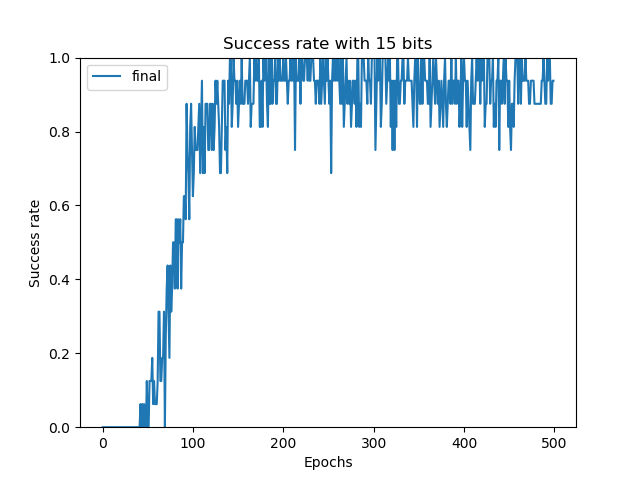
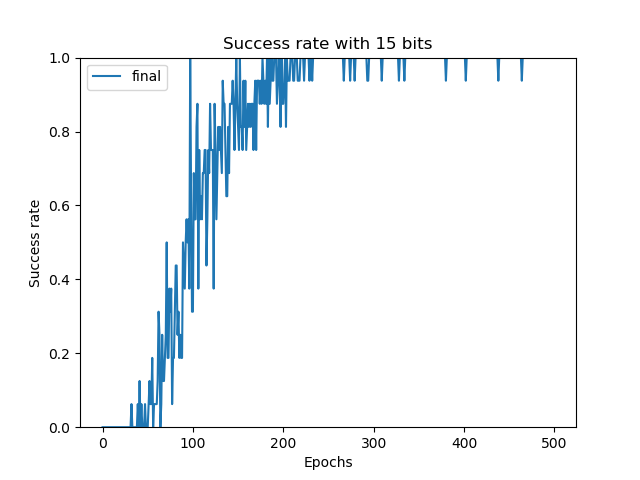
hw3 bkup

Changed region(s): [[0.1875, 0.125, 0.875, 0.9062]]

diff --git a/hw3/bits_main.py b/hw3/bits_main.py
@@ -33,7 +33,8 @@ flags.DEFINE_integer("log_interval", 5, "Epochs between printing log info")
 flags.DEFINE_integer("opt_steps", 40, "Optimization steps in each epoch")
 
 FLAGS = flags.FLAGS
-import ipdb as pdb
+# import ipdb as pdb
+# from ipdb import slaunch_ipdb_on_exception
 
 
 class Model(object):
@@ -150,21 +151,7 @@ def solve_environment(state, goal_state, total_reward):
     return succeeded, episode_experience, total_reward
 
 
-def reward_fn(state_vector, goal_vector, action):
-    if action < 0 or action >= num_bits:
-        # check argument is in range
-        print("Invalid action! Must be integer ranging from \
-            0 to num_bits-1")
-        return
-
-    # flip the bit with index action
-    if state_vector[action] == 1:
-        state_vector[action] = 0
-    else:
-        state_vector[action] = 1
-
-    # initial values of reward and done - may change
-    # depending on state and goal vectors
+def reward_fn(state_vector, goal_vector):
     reward = 0
 
     # check if state and goal vectors are identical
@@ -203,38 +190,51 @@ def update_replay_buffer(episode_experience, HER):
 
         elif HER == 'final':
             # final - relabel based on final state in episode
-            new_goal_vector = np.copy(episode_experience[-1][0][:num_bits])
+            new_goal_vector = np.copy(episode_experience[-1][3][:num_bits])
             state = np.copy(inputs[0][:num_bits])
             new_state = np.copy(inputs_[:num_bits])
             full_state = np.hstack((state, new_goal_vector)),
             full_new_state = np.hstack((new_state, new_goal_vector))
-            new_r = 0
+            new_r = reward_fn(new_state, new_goal_vector)
             replay_buffer.add(full_state, a, new_r, full_new_state)
 
         elif HER == 'future':
             # future - relabel based on future state. At each timestep t, relabel the
             # goal with a randomly select timestep between t and the end of the
             # episode
-            new_goal_vector = random.sample(episode_experience, 1)[0][3][num_bits:]
+            if t + 1 == num_bits:
+                continue
             for i in range(num_relabeled):
-                sample_episode = random.sample(episode_experience, 1)[0]
-                state, action, new_state = sample_episode[0][num_bits:], sample_episode[1], sample_episode[3][num_bits:]
-                new_r = reward_fn(state, new_goal_vector, action)
+                new_goal_vector = random.sample(episode_experience[t + 1:], 1)[0][3][:num_bits]
+                state = np.copy(inputs[0][:num_bits])
+                new_state = np.copy(inputs_[:num_bits])
                 full_state = np.hstack((state, new_goal_vector)),
                 full_new_state = np.hstack((new_state, new_goal_vector))
-                replay_buffer.add(full_state, action, new_r, full_new_state)
-
+                new_r = reward_fn(new_state, new_goal_vector)
+                replay_buffer.add(full_state, a, new_r, full_new_state)
+                # sample_episode = random.sample(episode_experience[t + 1:], 1)[0]
+                # state, action, new_state = sample_episode[0][:num_bits], sample_episode[1], sample_episode[3][:num_bits]
+                # new_r = reward_fn(new_state, new_goal_vector)
+                # full_state = np.hstack((state, new_goal_vector)),
+                # full_new_state = np.hstack((new_state, new_goal_vector))
+                # replay_buffer.add(full_state, action, new_r, full_new_state)
 
         elif HER == 'random':
             # random - relabel based on a random state in the episode
-            new_goal_vector = random.sample(episode_experience, 1)[0][0][num_bits:]
             for i in range(num_relabeled):
-                sample_episode = random.sample(episode_experience, 1)[0]
-                state, action, new_state = sample_episode[0][num_bits:], sample_episode[1], sample_episode[3][num_bits:]
-                new_r = reward_fn(state, new_goal_vector, action)
+                new_goal_vector = random.sample(episode_experience, 1)[0][3][:num_bits]
+                state = np.copy(inputs[0][:num_bits])
+                new_state = np.copy(inputs_[:num_bits])
                 full_state = np.hstack((state, new_goal_vector)),
                 full_new_state = np.hstack((new_state, new_goal_vector))
-                replay_buffer.add(full_state, action, new_r, full_new_state)
+                new_r = reward_fn(new_state, new_goal_vector)
+                replay_buffer.add(full_state, a, new_r, full_new_state)
+                # sample_episode = random.sample(episode_experience, 1)[0]
+                # state, action, new_state = sample_episode[0][:num_bits], sample_episode[1], sample_episode[3][:num_bits]
+                # new_r = reward_fn(new_state, new_goal_vector)
+                # full_state = np.hstack((state, new_goal_vector)),
+                # full_new_state = np.hstack((new_state, new_goal_vector))
+                # replay_buffer.add(full_state, action, new_r, full_new_state)
 
         # ========================      END TODO       ========================
 

diff --git a/hw3/sawyer_main.py b/hw3/sawyer_main.py
@@ -213,7 +213,7 @@ def update_replay_buffer(episode_experience, HER):
 
         s, a, r, s_, g = episode_experience[t]
         # state
-        inputs = s
+        inputs = s,
         # next state
         inputs_ = s_
         # add to the replay buffer
@@ -227,38 +227,39 @@ def update_replay_buffer(episode_experience, HER):
 
         elif HER == 'final':
             # final - relabel based on final state in episode
-            new_goal_vector = np.copy(episode_experience[-1][0][:NUM_DIM])
+            new_goal_vector = np.copy(episode_experience[-1][3][:NUM_DIM])
             state = np.copy(inputs[0][:NUM_DIM])
             new_state = np.copy(inputs_[:NUM_DIM])
             full_state = np.hstack((state, new_goal_vector)),
             full_new_state = np.hstack((new_state, new_goal_vector))
-            new_r = 0
+            new_r = reward_fn(new_state, new_goal_vector)
             replay_buffer.add(full_state, a, new_r, full_new_state)
 
         elif HER == 'future':
             # future - relabel based on future state. At each timestep t, relabel the
             # goal with a randomly select timestep between t and the end of the
             # episode
-            new_goal_vector = random.sample(episode_experience, 1)[0][3]
+            if t + 1 == NUM_DIM:
+                continue
             for i in range(num_relabeled):
-                sample_episode = random.sample(episode_experience, 1)[0]
-                state, action, new_state = sample_episode[0], sample_episode[1], sample_episode[2]
-                new_r = reward_fn(state, new_goal_vector)
+                new_goal_vector = random.sample(episode_experience[t + 1:], 1)[0][3][:NUM_DIM]
+                state = np.copy(inputs[0][:NUM_DIM])
+                new_state = np.copy(inputs_[:NUM_DIM])
                 full_state = np.hstack((state, new_goal_vector)),
                 full_new_state = np.hstack((new_state, new_goal_vector))
-                replay_buffer.add(full_state, action, new_r, full_new_state)
-
+                new_r = reward_fn(new_state, new_goal_vector)
+                replay_buffer.add(full_state, a, new_r, full_new_state)
 
         elif HER == 'random':
             # random - relabel based on a random state in the episode
-            new_goal_vector = random.sample(episode_experience, 1)[0][0]
             for i in range(num_relabeled):
-                sample_episode = random.sample(episode_experience, 1)[0]
-                state, action, new_state = sample_episode[0], sample_episode[1], sample_episode[3]
-                new_r = reward_fn(state, new_goal_vector)
+                new_goal_vector = random.sample(episode_experience, 1)[0][3][:NUM_DIM]
+                state = np.copy(inputs[0][:NUM_DIM])
+                new_state = np.copy(inputs_[:NUM_DIM])
                 full_state = np.hstack((state, new_goal_vector)),
                 full_new_state = np.hstack((new_state, new_goal_vector))
-                replay_buffer.add(full_state, action, new_r, full_new_state)
+                new_r = reward_fn(new_state, new_goal_vector)
+                replay_buffer.add(full_state, a, new_r, full_new_state)
 
         # ========================      END TODO       ========================
 
